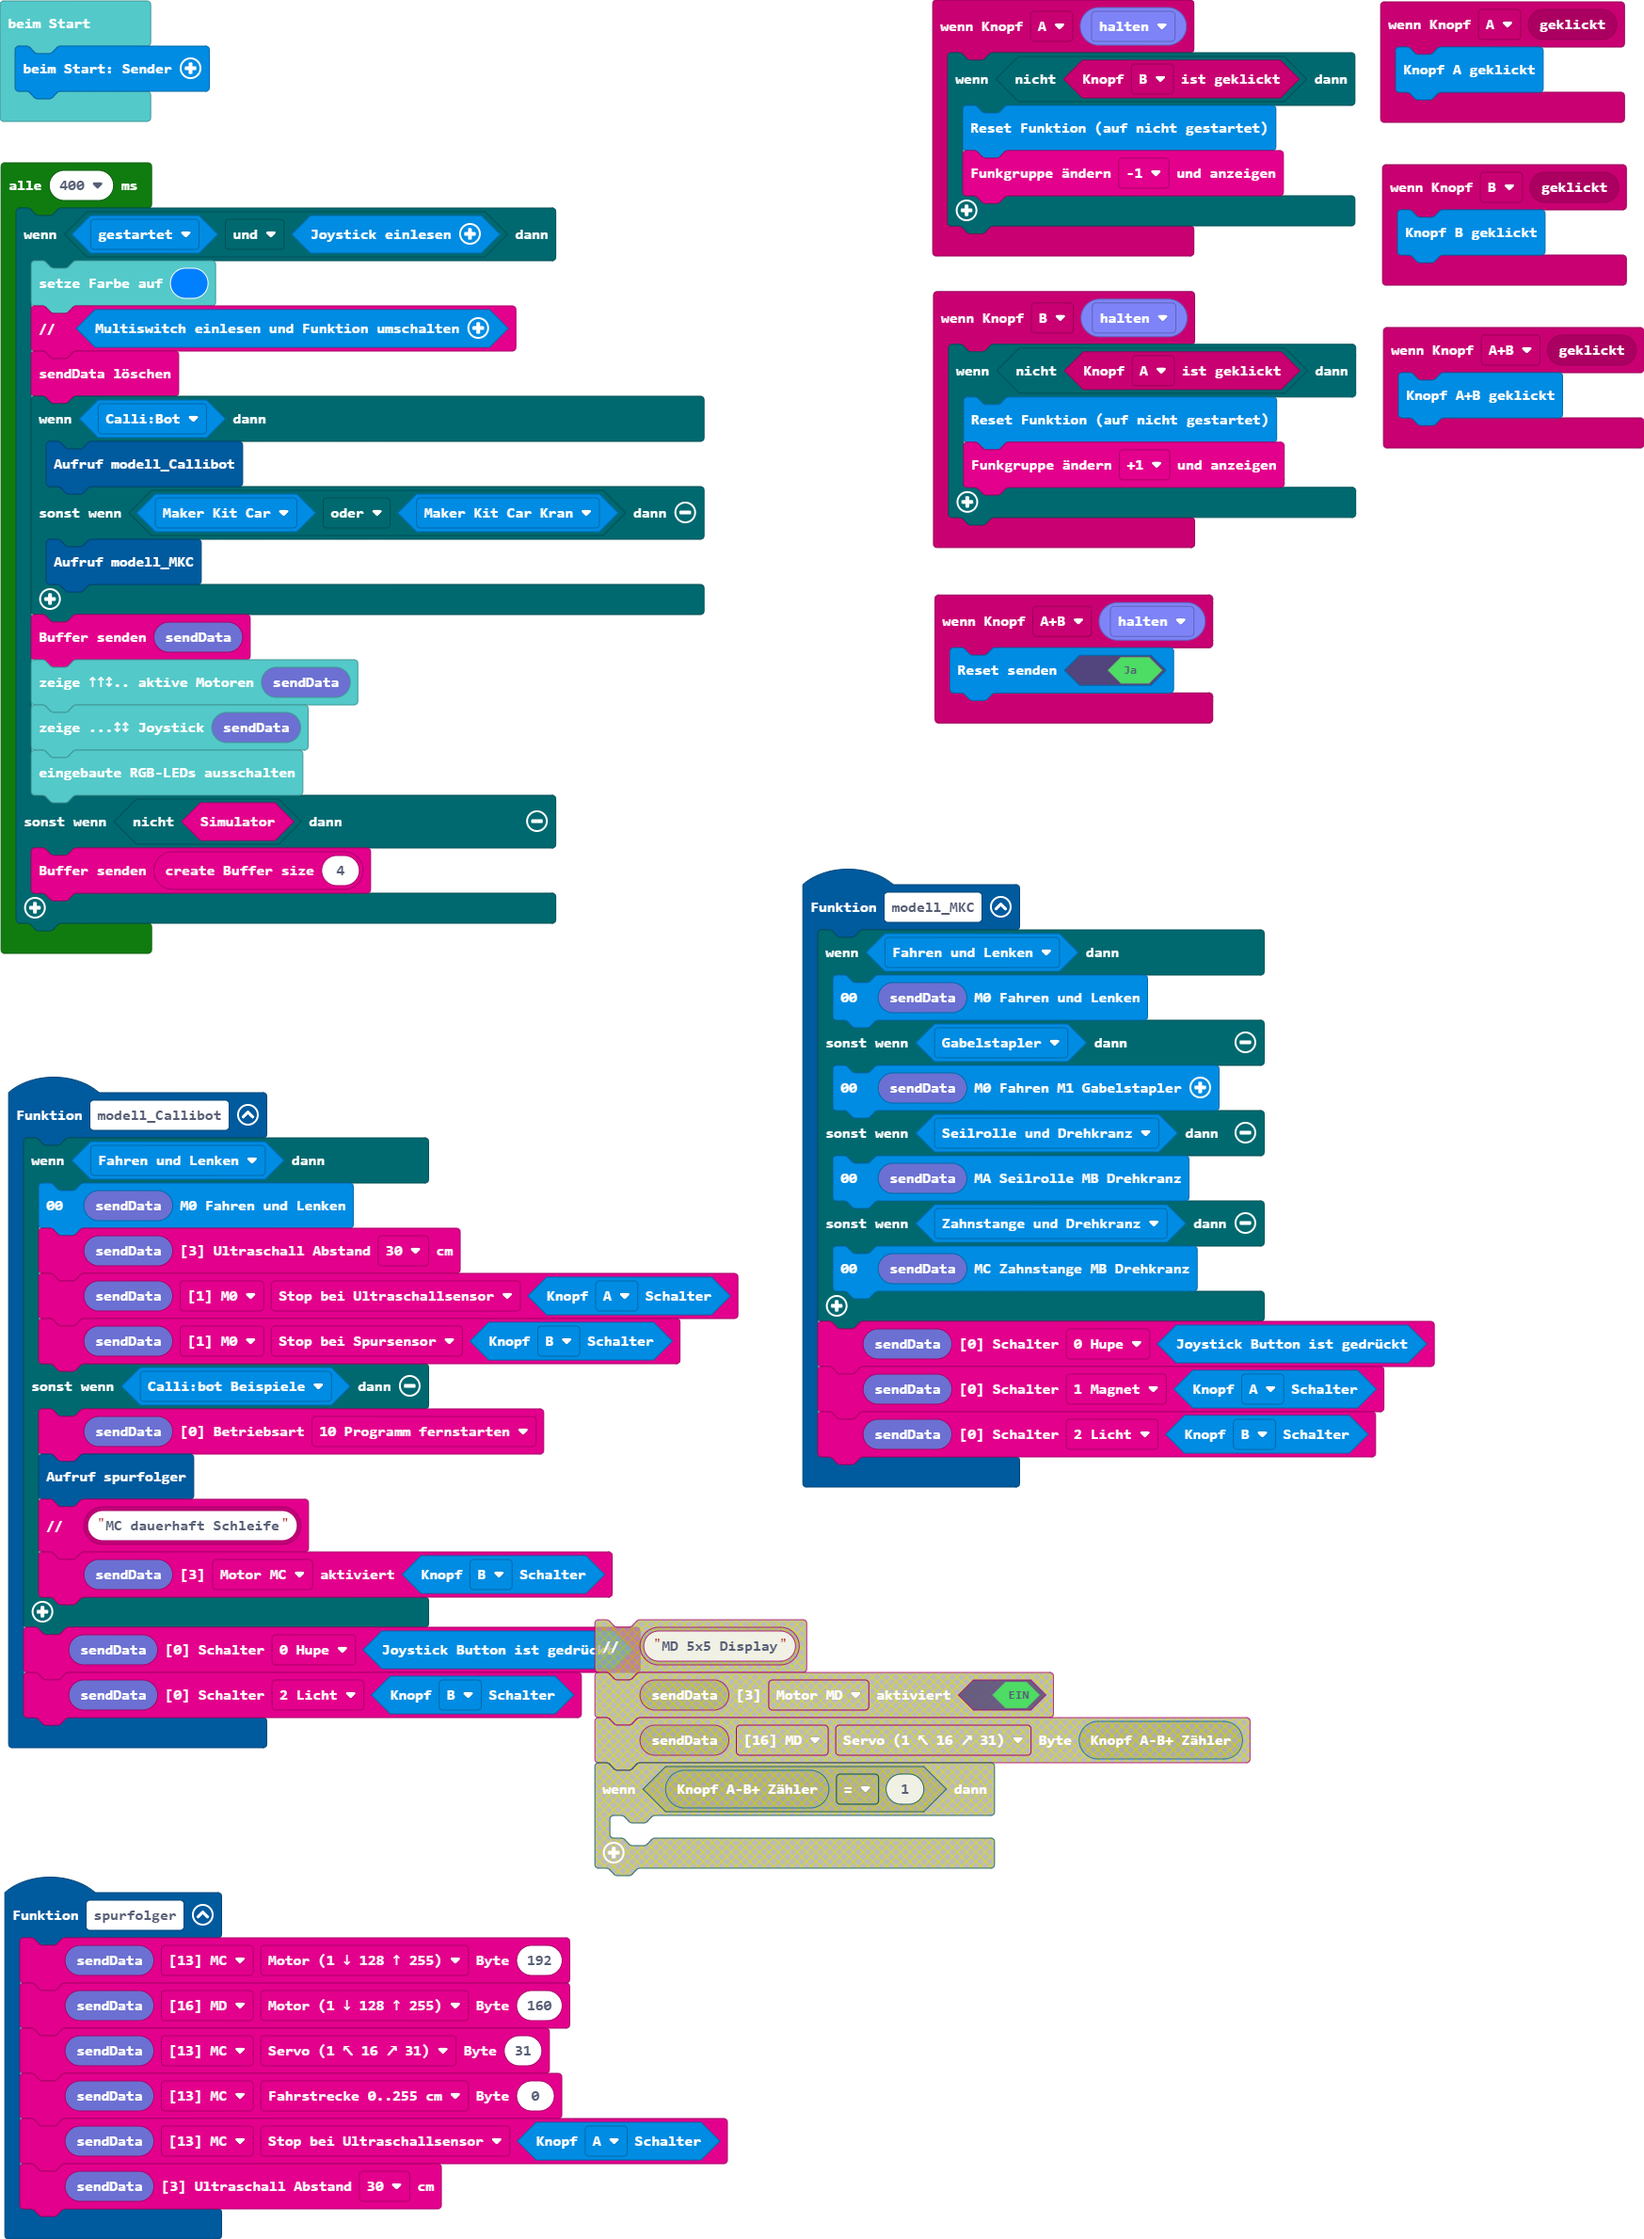
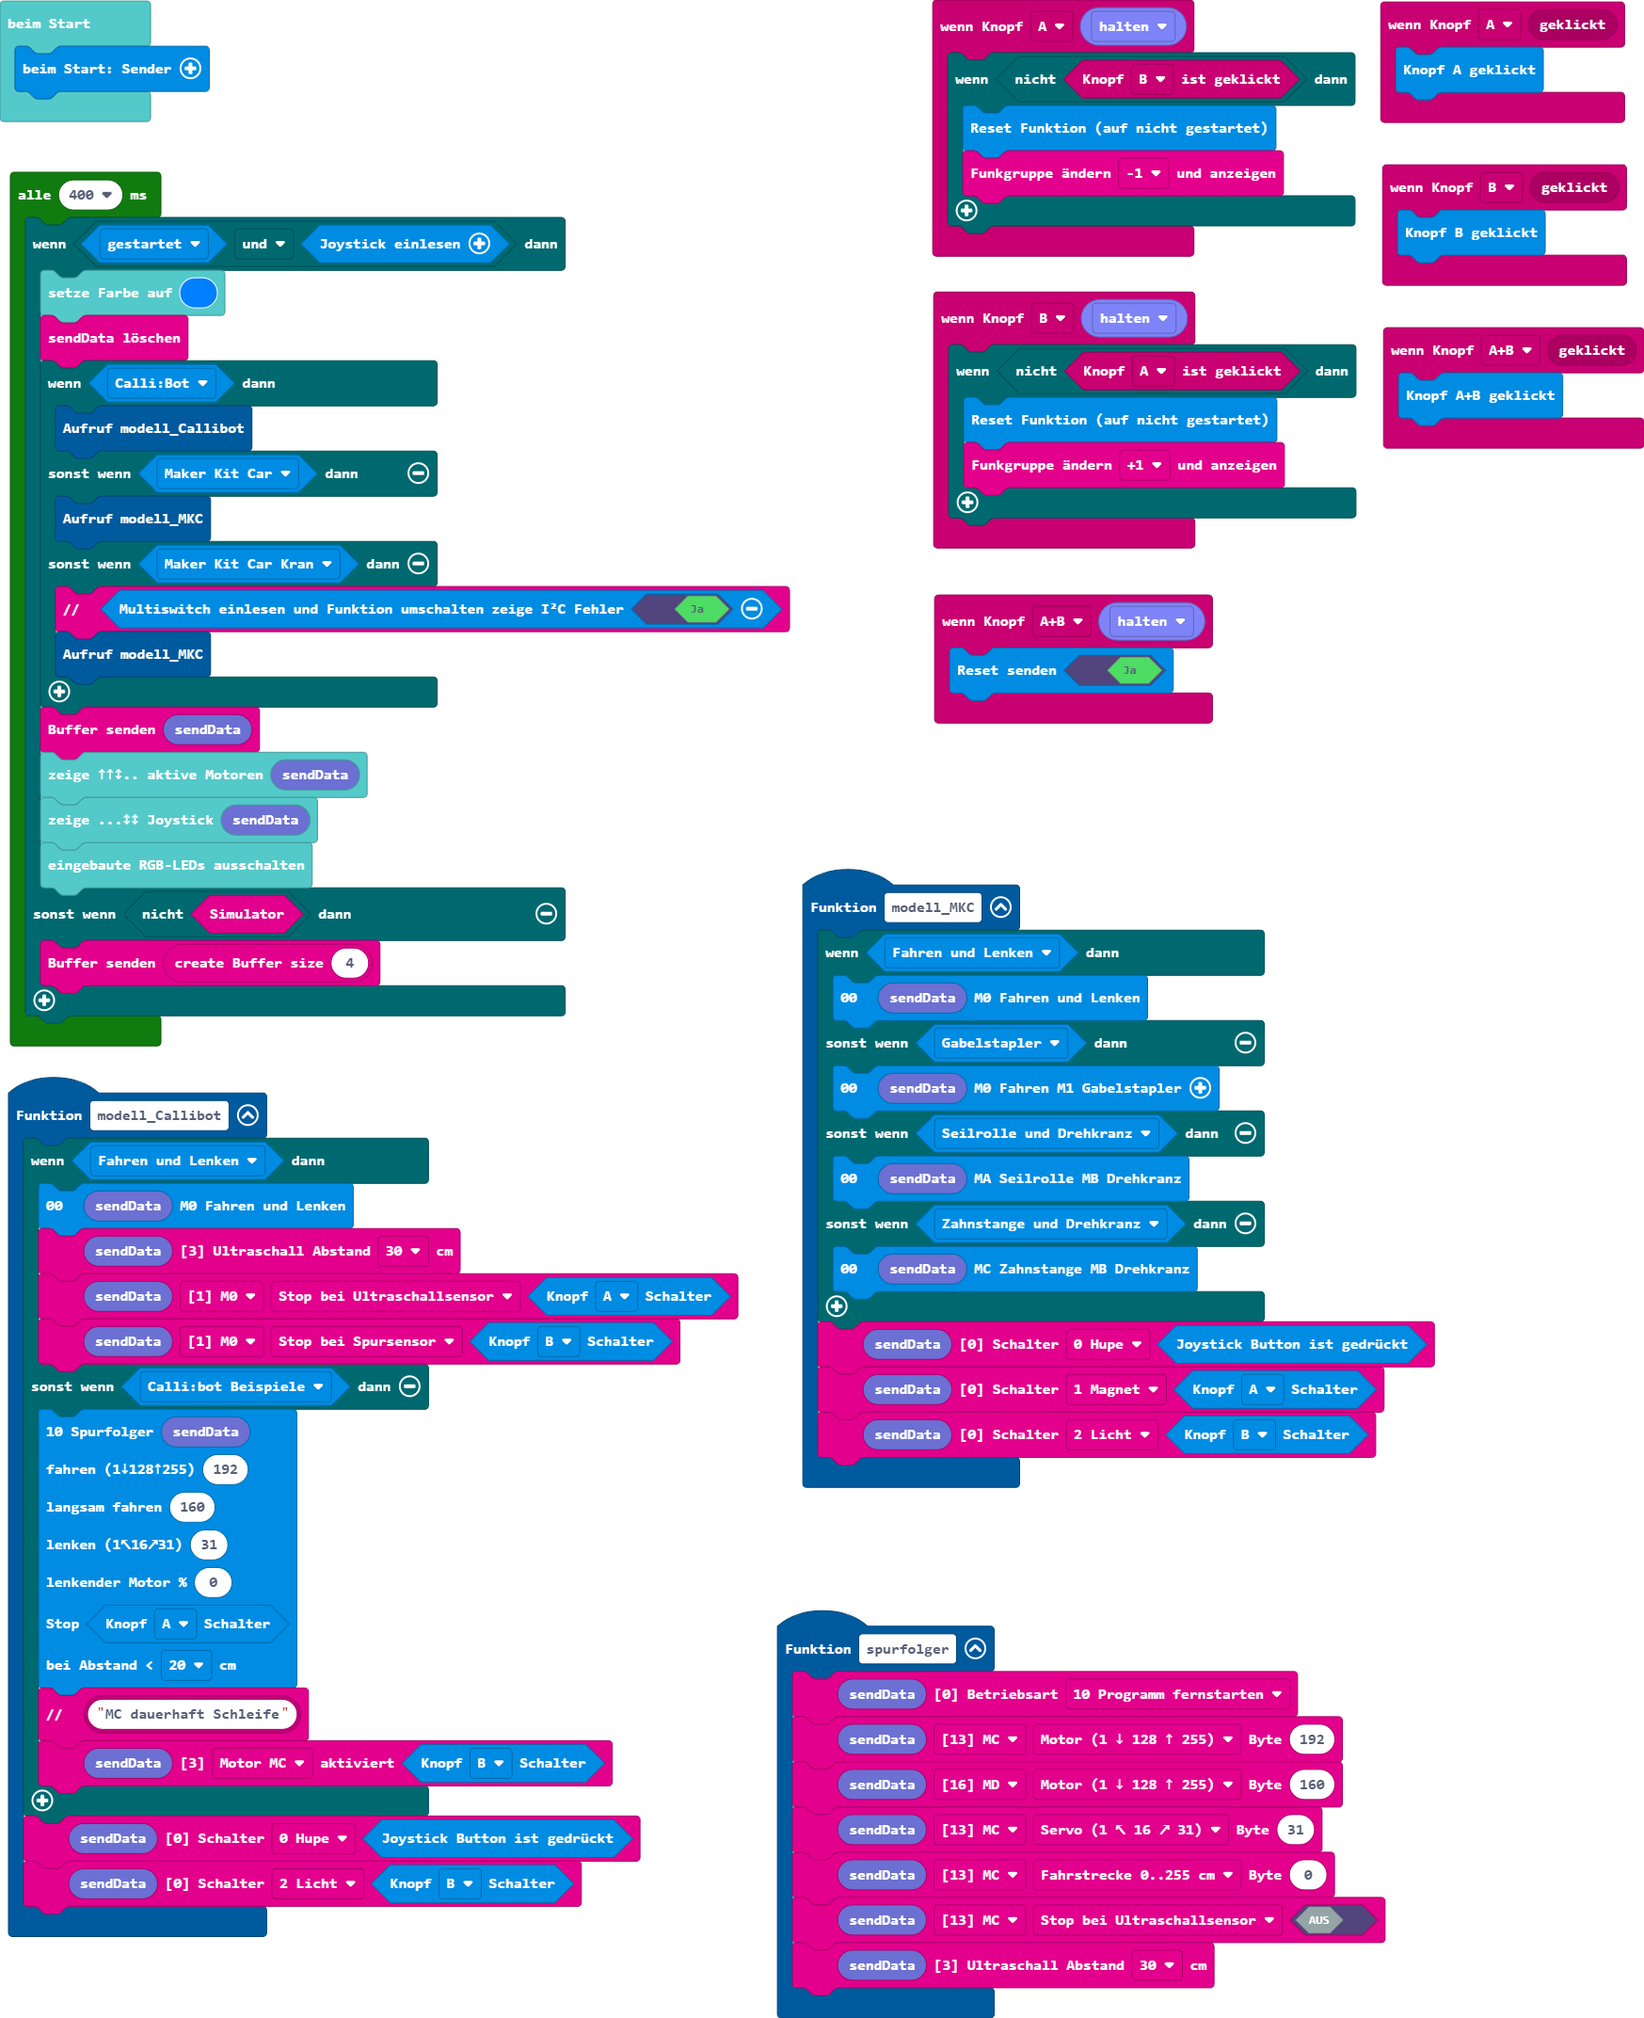
Aktualisiere pxt.json, main.blocks, main.ts

diff --git a/main.ts b/main.ts
@@ -5,8 +5,15 @@ function modell_Callibot () {
         btf.setSensor(btf.btf_sendBuffer19(), btf.eBufferPointer.m0, btf.eSensor.b6Abstand, sender.getButtonAB_Switch(sender.eButtonAB_Switch.A))
         btf.setSensor(btf.btf_sendBuffer19(), btf.eBufferPointer.m0, btf.eSensor.b5Spur, sender.getButtonAB_Switch(sender.eButtonAB_Switch.B))
     } else if (sender.isFunktion(sender.eFunktion.mc_md_callibot_beispiele)) {
-        btf.setBetriebsart(btf.btf_sendBuffer19(), btf.e0Betriebsart.p1Lokal)
-        spurfolger()
+        sender.send10Spurfolger(
+        btf.btf_sendBuffer19(),
+        192,
+        160,
+        31,
+        0,
+        sender.getButtonAB_Switch(sender.eButtonAB_Switch.A),
+        btf.e3Abstand.u2
+        )
         btf.comment(btf.btf_text("MC dauerhaft Schleife"))
         btf.setaktiviert(btf.btf_sendBuffer19(), btf.e3aktiviert.mc, sender.getButtonAB_Switch(sender.eButtonAB_Switch.B))
     }
@@ -46,11 +53,12 @@ function modell_MKC () {
     btf.setSchalter(btf.btf_sendBuffer19(), btf.e0Schalter.b2, sender.getButtonAB_Switch(sender.eButtonAB_Switch.B))
 }
 function spurfolger () {
+    btf.setBetriebsart(btf.btf_sendBuffer19(), btf.e0Betriebsart.p1Lokal)
     btf.setByte(btf.btf_sendBuffer19(), btf.eBufferPointer.mc, btf.eBufferOffset.b0_Motor, 192)
     btf.setByte(btf.btf_sendBuffer19(), btf.eBufferPointer.md, btf.eBufferOffset.b0_Motor, 160)
     btf.setByte(btf.btf_sendBuffer19(), btf.eBufferPointer.mc, btf.eBufferOffset.b1_Servo, 31)
     btf.setByte(btf.btf_sendBuffer19(), btf.eBufferPointer.mc, btf.eBufferOffset.b2_Fahrstrecke, 0)
-    btf.setSensor(btf.btf_sendBuffer19(), btf.eBufferPointer.mc, btf.eSensor.b6Abstand, sender.getButtonAB_Switch(sender.eButtonAB_Switch.A))
+    btf.setSensor(btf.btf_sendBuffer19(), btf.eBufferPointer.mc, btf.eSensor.b6Abstand, false)
     btf.setAbstand(btf.btf_sendBuffer19(), btf.e3Abstand.u3)
 }
 input.onButtonEvent(Button.A, btf.buttonEventValue(ButtonEvent.Hold), function () {
@@ -63,11 +71,13 @@ sender.beimStart()
 loops.everyInterval(400, function () {
     if (sender.isFunktion(sender.eFunktion.ng) && sender.joystickQwiic()) {
         basic.setLedColor(0x007fff)
-        btf.comment(sender.multiswitchGrove())
         btf.fill_sendBuffer19()
         if (sender.isModell(sender.eModell.cb2e)) {
             modell_Callibot()
-        } else if (sender.isModell(sender.eModell.mkcg) || sender.isModell(sender.eModell.mkck)) {
+        } else if (sender.isModell(sender.eModell.mkcg)) {
+            modell_MKC()
+        } else if (sender.isModell(sender.eModell.mkck)) {
+            btf.comment(sender.multiswitchGrove(true))
             modell_MKC()
         }
         btf.sendData(btf.btf_sendBuffer19())
